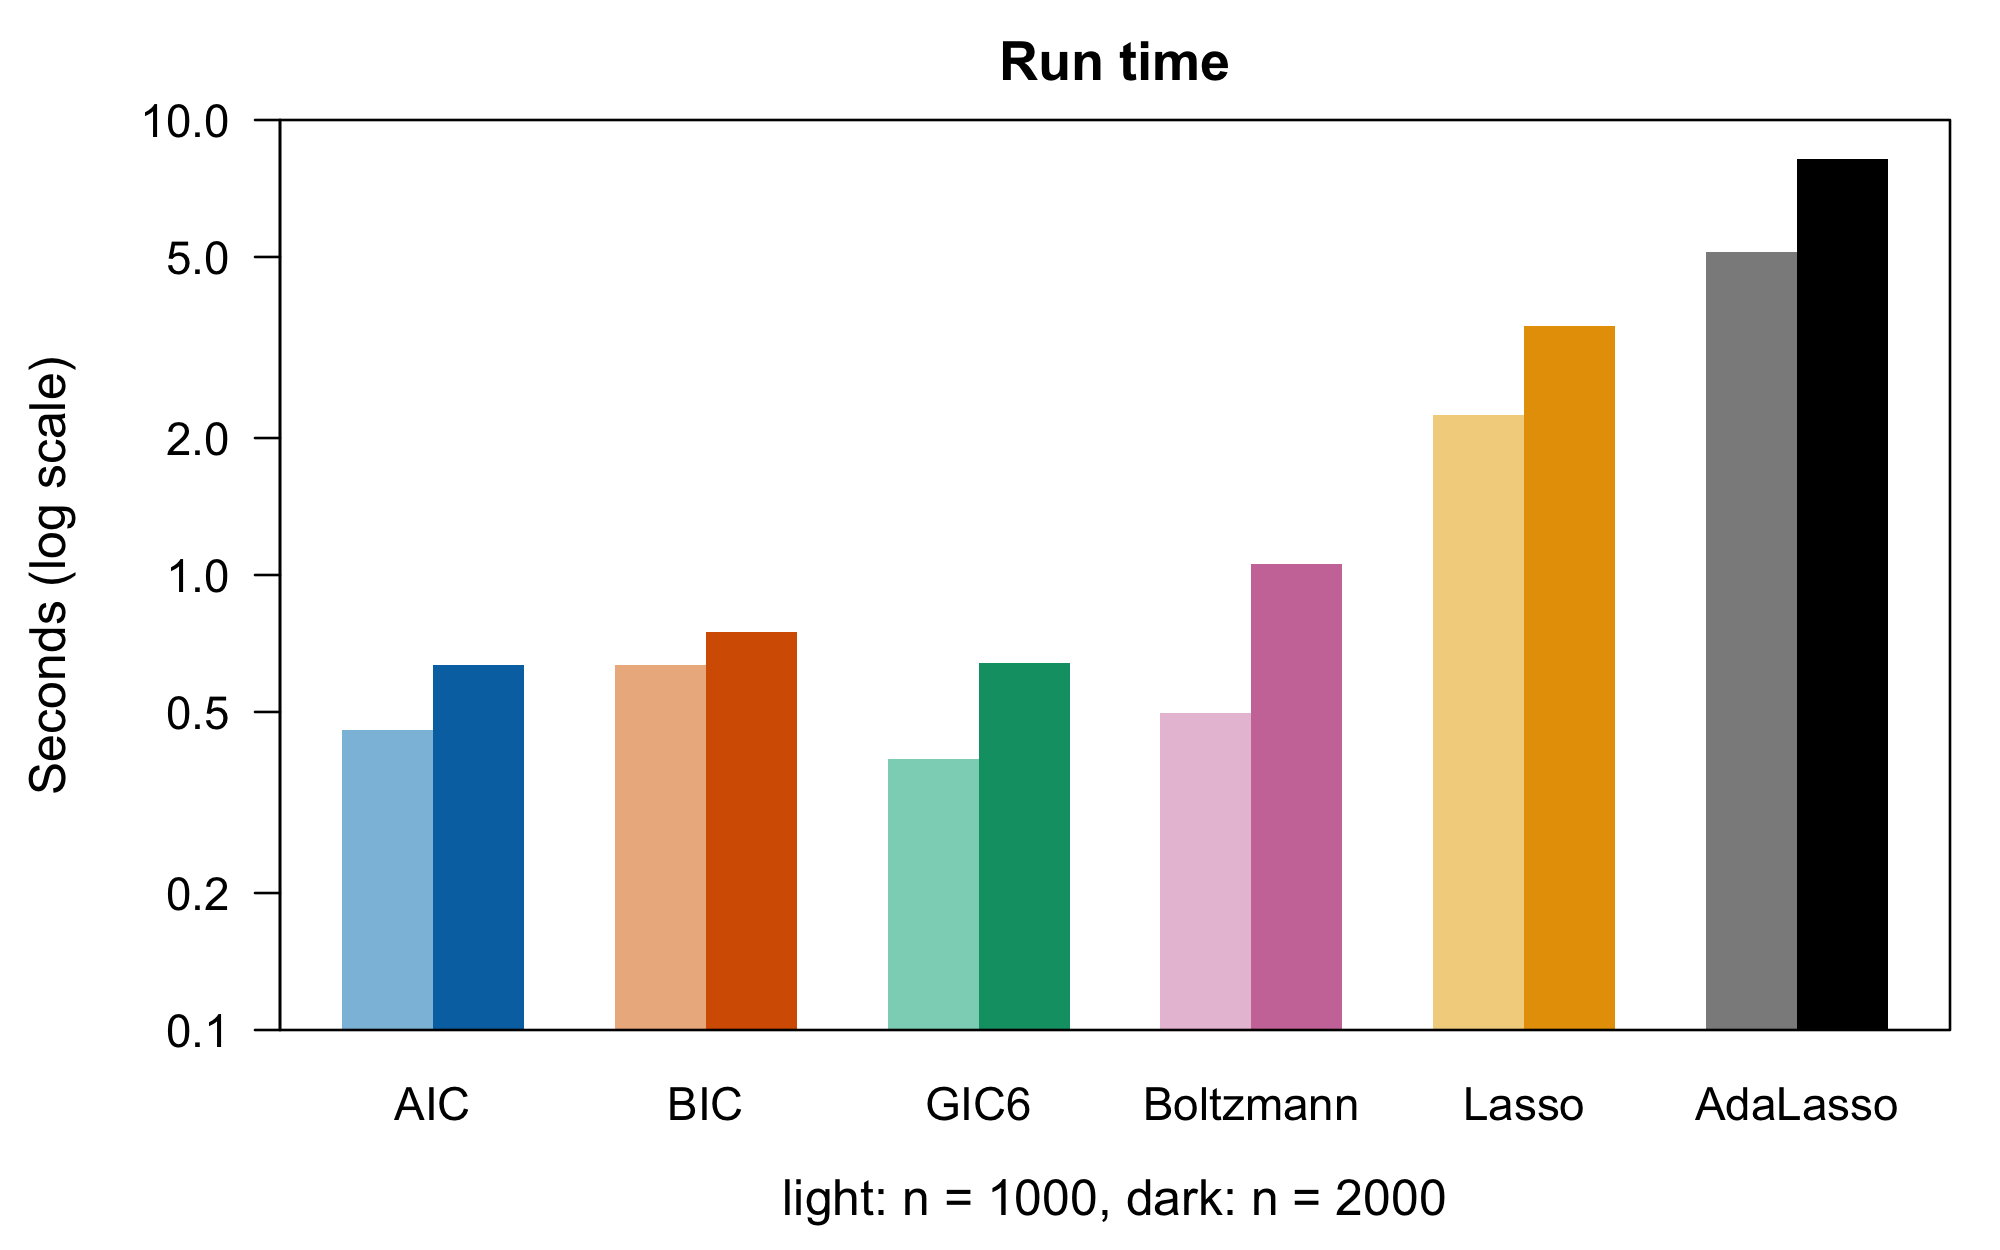
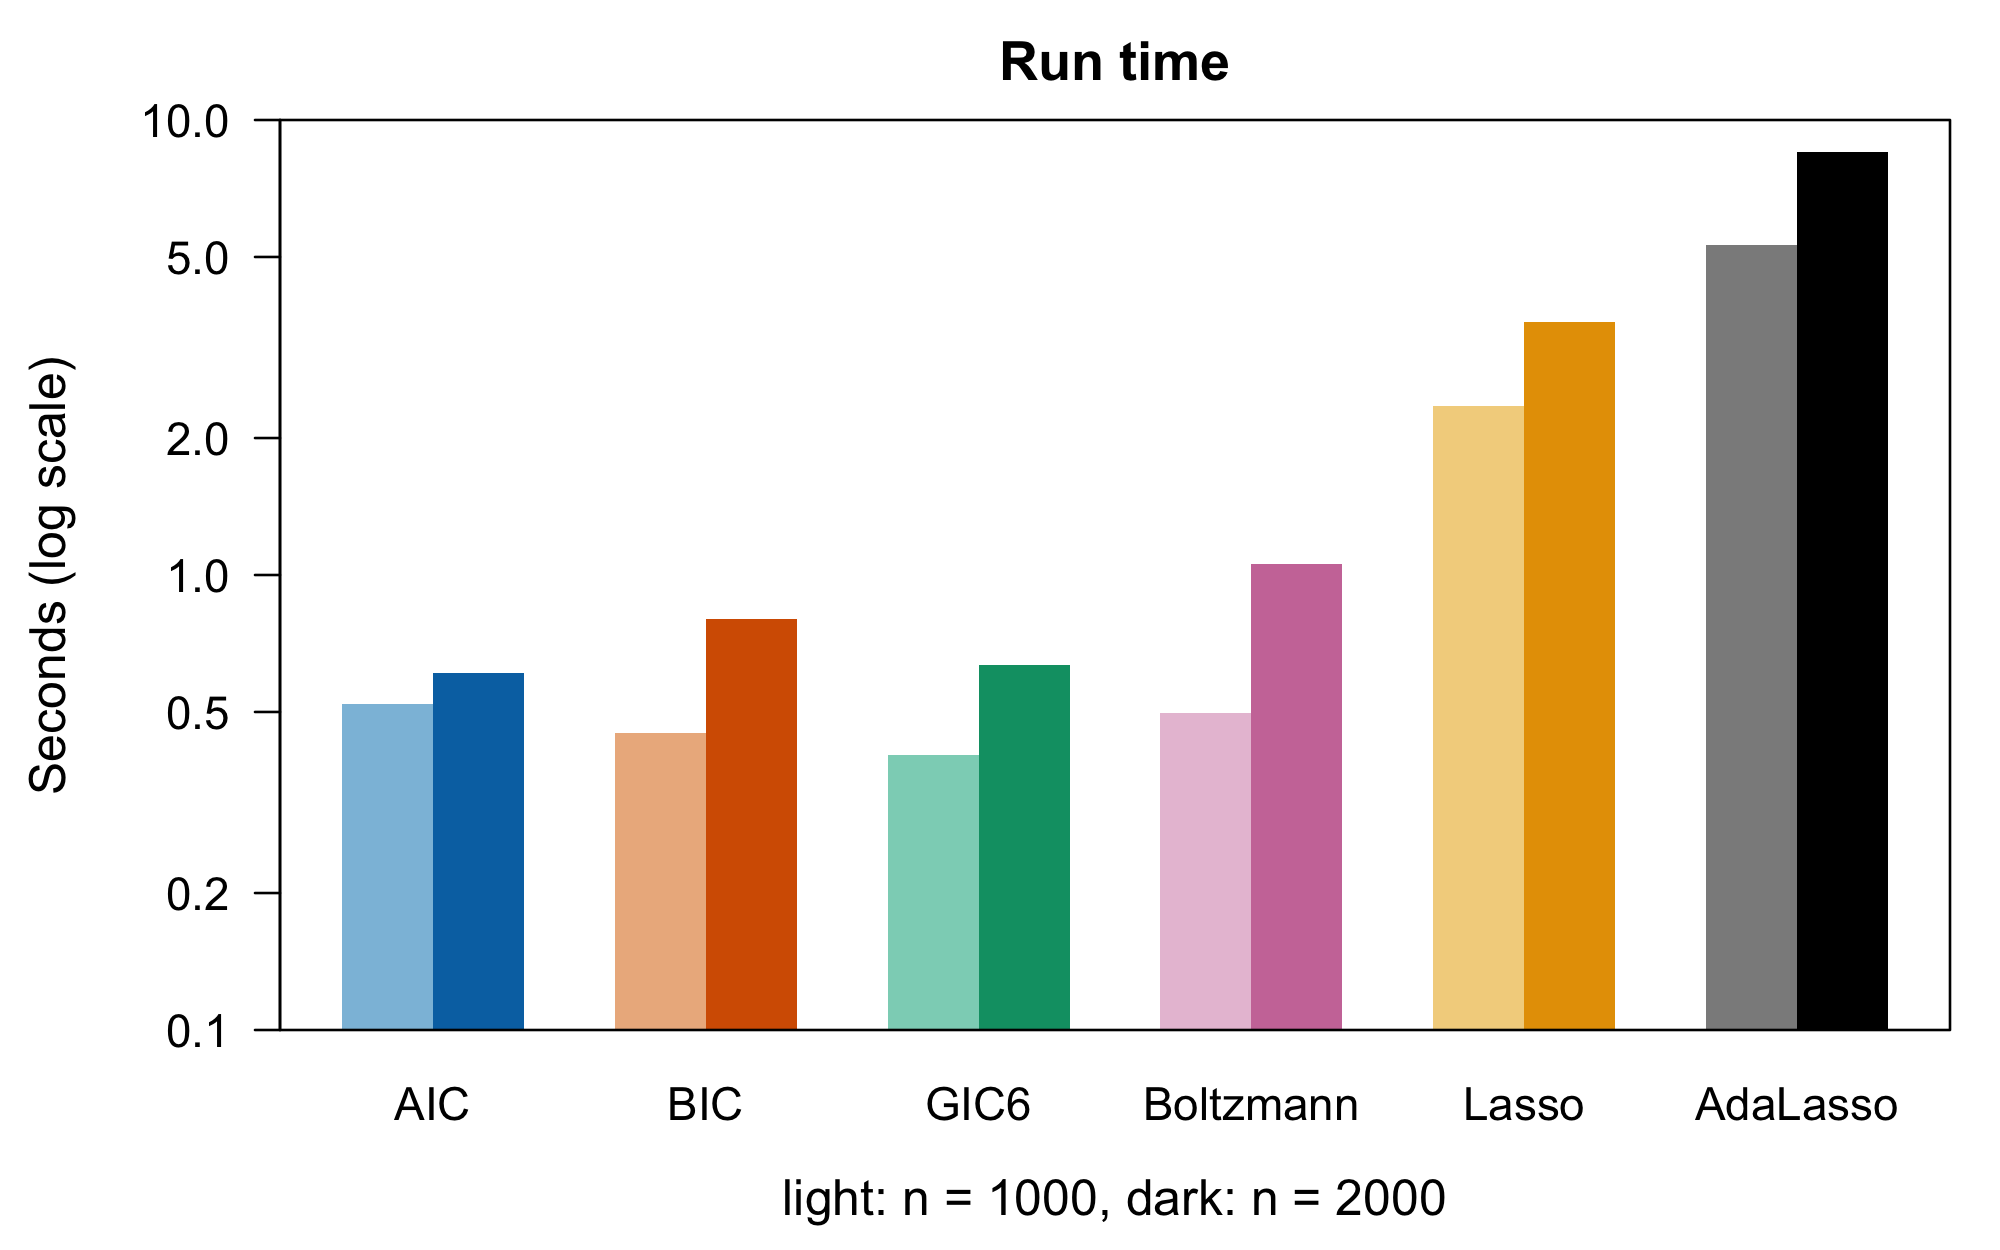
Use lambda.1se for the lasso and adaptive lasso in the README examples
The README and vignette fitted the reference lasso and adaptive lasso at
lambda.min. Switch to lambda.1se, glmnet's default for coef() and
predict() on cv.glmnet objects: the largest lambda whose cross-validated
error is within one standard error of the minimum. This applies to both
the lasso and the adaptive lasso (its ridge pilot and weighted lasso).

Regenerated the README output and figures with data-raw/readme_figures.R.
The GIC and Boltzmann selections are unchanged; only the lasso and
adaptive lasso rows, their horizontal lines in the model-size figures,
and run times (by small amounts) change.

diff --git a/README.md b/README.md
@@ -165,7 +165,7 @@ the default $T = 0.1$.
 For reference, the examples also fit the lasso and the adaptive lasso with the
 [glmnet](https://CRAN.R-project.org/package=glmnet) package
 ([Friedman, Hastie and Tibshirani, 2010](https://doi.org/10.18637/jss.v033.i01)), using `cv.glmnet()` with 10-fold cross-validation and
-`lambda.min`, and `family = "gaussian"`, `"mgaussian"`, `"poisson"` or
+`lambda.1se` (glmnet's default), and `family = "gaussian"`, `"mgaussian"`, `"poisson"` or
 `"binomial"` to match the response, as in glmnet's own articles.
 The lasso and adaptive lasso are not fitted in the multinomial and Cox
 examples, because their cross-validation takes too long there.
@@ -174,7 +174,7 @@ Each table reports the size, false positives and false negatives of the
 selected model, and the wall-clock time of each method in seconds. Three
 figures follow each table: the criterion along the search, the model size
 along the search, with the number of predictors the lasso and the adaptive
-lasso select at the cross-validated $\lambda$ (`lambda.min`) as horizontal
+lasso select at the cross-validated $\lambda$ (`lambda.1se`) as horizontal
 lines, and the same run times as the table.
 
 <!-- Helper functions used in the examples (hidden; run by data-raw/readme_figures.R)
@@ -206,16 +206,16 @@ fit_boltzmann <- function(X, Y, init, k, Nsim, T) {
   list(GIC_values = fit$GIC_list, selected_coeffs = fit$GIC_coeff)
 }
 
-# Coefficients at lambda.min without the intercept, one column per response
+# Coefficients at lambda.1se (glmnet's default) without the intercept, one column per response
 lasso_coef <- function(cvfit) {
-  b <- coef(cvfit, s = "lambda.min")
+  b <- coef(cvfit, s = "lambda.1se")
   b <- if (is.list(b)) do.call(cbind, lapply(b, as.matrix)) else as.matrix(b)
   if (rownames(b)[1] == "(Intercept)") b <- b[-1, , drop = FALSE]   # none for Cox
   b
 }
 
 # Lasso, or adaptive lasso with ridge pilot weights, tuned by cv.glmnet()'s
-# default 10-fold cross-validation (lambda.min), as in glmnet's articles
+# default 10-fold cross-validation (lambda.1se, glmnet's default)
 fit_lasso <- function(X, y, family, adaptive = FALSE) {
   args <- list(X, y, family = family)
   if (adaptive) {
@@ -308,18 +308,18 @@ Y <- LP_to_Y(X, beta, family = "Normal", std = sqrt(sum(beta^2) / 0.71))
 fits <- compare_criteria(X, Y, 1:p, k = p, Nsim = 5)
 selection_table(fits, true_cols)
 #>                 size false_pos false_neg seconds
-#> n1000 AIC        152       147         0    0.59
-#> n1000 BIC          8         3         0    0.57
-#> n1000 GIC6         5         0         0    0.36
-#> n1000 Boltzmann    5         0         0    0.43
-#> n1000 Lasso       22        17         0    0.82
-#> n1000 AdaLasso    25        20         0    1.61
-#> n2000 AIC        116       111         0    0.66
-#> n2000 BIC          9         4         0    0.70
-#> n2000 GIC6         5         0         0    0.60
-#> n2000 Boltzmann    5         0         0    0.59
-#> n2000 Lasso       18        13         0    0.94
-#> n2000 AdaLasso    24        19         0    2.56
+#> n1000 AIC        152       147         0    0.58
+#> n1000 BIC          8         3         0    0.56
+#> n1000 GIC6         5         0         0    0.50
+#> n1000 Boltzmann    5         0         0    0.36
+#> n1000 Lasso        5         0         0    0.91
+#> n1000 AdaLasso     5         0         0    1.64
+#> n2000 AIC        116       111         0    0.77
+#> n2000 BIC          9         4         0    0.72
+#> n2000 GIC6         5         0         0    0.66
+#> n2000 Boltzmann    5         0         0    0.66
+#> n2000 Lasso        5         0         0    0.99
+#> n2000 AdaLasso     5         0         0    2.67
 ```
 
 <p align="center"><img src="man/figures/README-linear-criterion.png" alt="Criterion along the search, linear model with p = 500" width="85%"></p>
@@ -350,18 +350,18 @@ fits <- compare_criteria(X, Y_multi, 1:p, k = p, Nsim = 5,
                          lasso_family = "mgaussian")
 selection_table(fits, true_union)
 #>                 size false_pos false_neg seconds
-#> n1000 AIC        102        80         2    0.46
-#> n1000 BIC         20         0         4    0.63
-#> n1000 GIC6        19         0         5    0.39
+#> n1000 AIC        102        80         2    0.52
+#> n1000 BIC         20         0         4    0.45
+#> n1000 GIC6        19         0         5    0.40
 #> n1000 Boltzmann   82        62         4    0.50
-#> n1000 Lasso      129       106         1    2.24
-#> n1000 AdaLasso    21         2         5    5.13
-#> n2000 AIC         69        45         0    0.63
-#> n2000 BIC         20         0         4    0.75
-#> n2000 GIC6        19         0         5    0.64
+#> n1000 Lasso       32        10         2    2.35
+#> n1000 AdaLasso    19         0         5    5.32
+#> n2000 AIC         69        45         0    0.61
+#> n2000 BIC         20         0         4    0.80
+#> n2000 GIC6        19         0         5    0.63
 #> n2000 Boltzmann  132       111         3    1.06
-#> n2000 Lasso      131       107         0    3.53
-#> n2000 AdaLasso    41        17         0    8.22
+#> n2000 Lasso       35        11         0    3.60
+#> n2000 AdaLasso    19         0         5    8.51
 ```
 
 <p align="center"><img src="man/figures/README-multivariate-criterion.png" alt="Criterion along the search, multivariate normal response" width="85%"></p>
@@ -403,14 +403,14 @@ selection_table(fits, true_cols)
 #> n1000 BIC          9         4         0    0.03
 #> n1000 GIC6         5         0         0    0.02
 #> n1000 Boltzmann   49        46         2    0.03
-#> n1000 Lasso       29        24         0    1.92
-#> n1000 AdaLasso     5         0         0    2.11
+#> n1000 Lasso       16        11         0    2.04
+#> n1000 AdaLasso     5         0         0    2.14
 #> n2000 AIC         49        45         1    0.12
 #> n2000 BIC         10         5         0    0.05
-#> n2000 GIC6         5         0         0    0.04
-#> n2000 Boltzmann   49        47         3    0.13
-#> n2000 Lasso       51        46         0    1.43
-#> n2000 AdaLasso     5         0         0    3.96
+#> n2000 GIC6         5         0         0    0.05
+#> n2000 Boltzmann   49        47         3    0.12
+#> n2000 Lasso        7         2         0    1.46
+#> n2000 AdaLasso     5         0         0    4.11
 
 # Coefficients of the GIC6 model for n = 2000, intercept first
 round(Beta_estimate(X[, last_model(fits$n2000$GIC6)], y_pois, family = "Poisson"), 2)
@@ -431,18 +431,18 @@ fits <- compare_glm(y_binom, cbind(10 - y_binom, y_binom), "binomial",
                     family = "Binomial", n_trials = 10)
 selection_table(fits, true_cols)
 #>                 size false_pos false_neg seconds
-#> n1000 AIC         49        44         0    0.21
-#> n1000 BIC         15        10         0    0.03
+#> n1000 AIC         49        44         0    0.20
+#> n1000 BIC         15        10         0    0.09
 #> n1000 GIC6         5         0         0    0.03
-#> n1000 Boltzmann    5         0         0    0.02
-#> n1000 Lasso       47        42         0    1.36
-#> n1000 AdaLasso    37        32         0    2.95
-#> n2000 AIC         49        46         2    0.07
-#> n2000 BIC          8         3         0    0.05
-#> n2000 GIC6         5         0         0    0.10
-#> n2000 Boltzmann    5         0         0    0.04
-#> n2000 Lasso       34        29         0    1.68
-#> n2000 AdaLasso    44        39         0    5.15
+#> n1000 Boltzmann    5         0         0    0.04
+#> n1000 Lasso        5         0         0    1.48
+#> n1000 AdaLasso     5         0         0    2.93
+#> n2000 AIC         49        46         2    0.08
+#> n2000 BIC          8         3         0    0.06
+#> n2000 GIC6         5         0         0    0.12
+#> n2000 Boltzmann    5         0         0    0.05
+#> n2000 Lasso        5         0         0    1.77
+#> n2000 AdaLasso     5         0         0    5.58
 ```
 
 <p align="center"><img src="man/figures/README-binomial-criterion.png" alt="Criterion along the search, binomial response" width="85%"></p>
@@ -463,14 +463,14 @@ y_mn <- LP_to_Y(X, B_mn, family = "Multinomial", n_categories = 3)
 fits <- compare_glm(y_mn, NULL, NULL, family = "Multinomial", n_categories = 3)
 selection_table(fits, true_cols)
 #>                 size false_pos false_neg seconds
-#> n1000 AIC         49        45         1    0.12
-#> n1000 BIC          6         1         0    0.02
-#> n1000 GIC6         5         0         0    0.02
-#> n1000 Boltzmann    5         0         0    0.02
+#> n1000 AIC         49        45         1    0.33
+#> n1000 BIC          6         1         0    0.03
+#> n1000 GIC6         5         0         0    0.03
+#> n1000 Boltzmann    5         0         0    0.03
 #> n2000 AIC         49        46         2    0.14
-#> n2000 BIC          7         2         0    0.04
+#> n2000 BIC          7         2         0    0.05
 #> n2000 GIC6         5         0         0    0.05
-#> n2000 Boltzmann   14         9         0    0.04
+#> n2000 Boltzmann   14         9         0    0.05
 ```
 
 <p align="center"><img src="man/figures/README-multinomial-criterion.png" alt="Criterion along the search, multinomial response" width="85%"></p>
@@ -498,14 +498,14 @@ y_surv <- survival::Surv(y_cox[, "time"], y_cox[, "status"])
 fits <- compare_glm(y_cox, NULL, NULL, family = "Cox")
 selection_table(fits, true_cols)
 #>                 size false_pos false_neg seconds
-#> n1000 AIC         49        45         1    0.59
+#> n1000 AIC         49        45         1    0.68
 #> n1000 BIC         10         5         0    0.03
 #> n1000 GIC6         5         0         0    0.02
-#> n1000 Boltzmann   49        46         2    0.09
-#> n2000 AIC         49        47         3    0.14
-#> n2000 BIC         10         5         0    0.04
-#> n2000 GIC6         5         0         0    0.05
-#> n2000 Boltzmann   49        46         2    0.16
+#> n1000 Boltzmann   49        46         2    0.10
+#> n2000 AIC         49        47         3    0.06
+#> n2000 BIC         10         5         0    0.05
+#> n2000 GIC6         5         0         0    0.13
+#> n2000 Boltzmann   49        46         2    0.12
 
 # Coefficients of the GIC6 model for n = 2000, from survival::coxph()
 round(unname(coef(survival::coxph(y_surv ~ X[, last_model(fits$n2000$GIC6)]))), 2)
